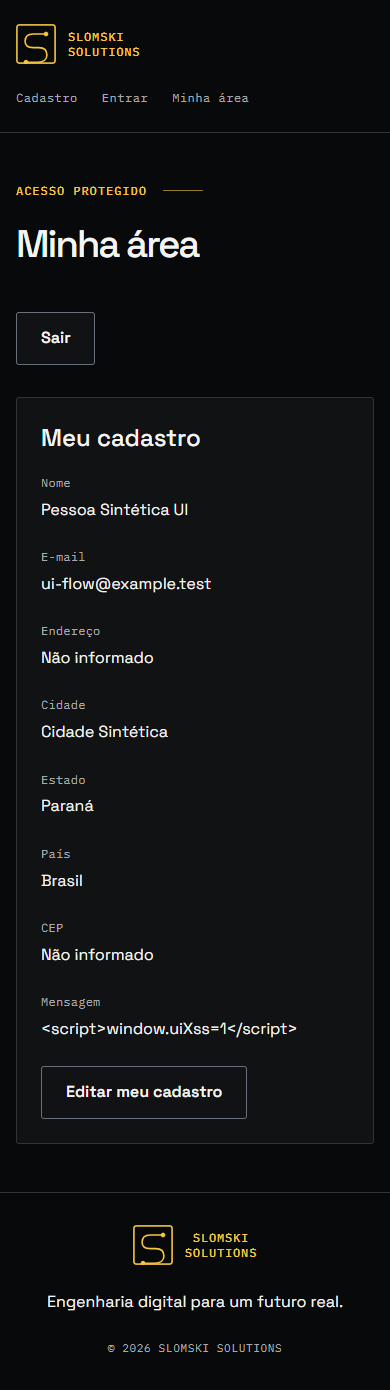
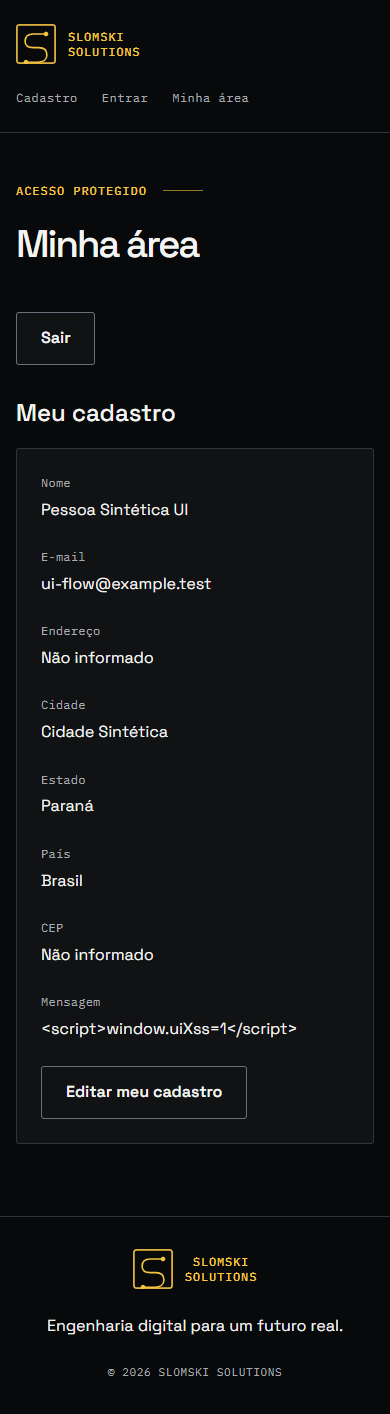
refactor(profile): unifica edição nas áreas de usuário e administrador
- Substitui o cartão pelo formulário no mesmo contêiner e largura
- Elimina a exibição duplicada dos dados durante a edição
- Preserva rascunho, foco, validações e controle de concorrência
- Mantém os fluxos administrativos e os contratos da API
- Atualiza testes, capturas afetadas e documentação

Validação: perfil 35/35, UI 51/51, administrativo 41/41 e
concorrência 58/58; lint, typecheck, build e Harness aprovados.

diff --git a/components/ui/Area.tsx b/components/ui/Area.tsx
@@ -445,21 +445,17 @@ export default function Area({ data, hasAfter = false }: { data: AreaData; hasAf
       {deleteTarget && <DeleteUserDialog user={deleteTarget} busy={deleting} dialogRef={deleteDialog} onCancel={() => actions.current?.cancelDelete()} onConfirm={() => void actions.current?.remove()} onLogout={() => void actions.current?.logout()} />}
       {deleting && !deleteTarget && <p className="notice" role="status">A exclusão continua em processamento. Aguarde a confirmação e a atualização da listagem.</p>}
       {success && <p className="notice success" role="status">{success}</p>}
-      {editor && !data.admin && <ProfileForm key={editor.etag} profile={editor} busy={busy} feedback={profileFeedback} onSave={input => void actions.current?.save(input)} onCancel={() => actions.current?.cancelEdit()} onReload={() => void actions.current?.edit()} />}
-      {!data.admin && <section className="card"><h2>Meu cadastro</h2><UserDetails user={snapshot.own} />
-        {!editor && <button ref={editButton} className="secondary profile-edit-action" disabled={busy} onClick={() => void actions.current?.edit()}>Editar meu cadastro</button>}
-      </section>}
-      {data.admin && <>
-        <section className="area-section" aria-labelledby="own-admin-title">
-          <h2 id="own-admin-title">Meu cadastro administrativo</h2>
-          <div className="admin-profile-slot">
-          {editor ? <ProfileForm key={editor.etag} embedded profile={editor} busy={busy} feedback={profileFeedback} onSave={input => void actions.current?.save(input)} onCancel={() => actions.current?.cancelEdit()} onReload={() => void actions.current?.edit()} /> : <article className="card record-card own-admin-card" aria-label={'Cadastro de ' + snapshot.own.name}>
-            <p className="record-badge">Você · Administrador</p>
-            <UserDetails user={snapshot.own} omitEmptyMessage />
-            {!editor && <button ref={editButton} className="secondary profile-edit-action" disabled={busy} onClick={() => void actions.current?.edit()}>Editar meu cadastro</button>}
+        <section className="area-section" aria-labelledby="own-profile-title">
+          <h2 id="own-profile-title">{data.admin ? 'Meu cadastro administrativo' : 'Meu cadastro'}</h2>
+          <div className={'profile-slot' + (data.admin ? ' admin-profile-slot' : '')}>
+          {editor ? <ProfileForm key={editor.etag} embedded profile={editor} busy={busy} feedback={profileFeedback} onSave={input => void actions.current?.save(input)} onCancel={() => actions.current?.cancelEdit()} onReload={() => void actions.current?.edit()} /> : <article className={'card' + (data.admin ? ' record-card own-admin-card' : '')} aria-label={'Cadastro de ' + snapshot.own.name}>
+            {data.admin && <p className="record-badge">Você · Administrador</p>}
+            <UserDetails user={snapshot.own} omitEmptyMessage={data.admin} />
+            <button ref={editButton} className="secondary profile-edit-action" disabled={busy} onClick={() => void actions.current?.edit()}>Editar meu cadastro</button>
           </article>}
           </div>
         </section>
+      {data.admin && <>
         <section className="area-section" aria-labelledby="managed-users-title">
         <h2 id="managed-users-title" ref={listTitle} tabIndex={-1}>Usuários cadastrados</h2>
         <p className="section-description">Contas comuns cadastradas na plataforma.</p>

diff --git a/app/globals.css b/app/globals.css
@@ -479,14 +479,14 @@ input[aria-invalid='true'], textarea[aria-invalid='true'] {
   margin-bottom: var(--space-5);
 }
 .own-admin-card { border-top: 2px solid var(--accent); }
-.admin-profile-slot { margin-bottom: var(--space-5); }
-.admin-profile-slot > .card {
+.profile-slot { margin-bottom: var(--space-5); }
+.profile-slot > .card {
   width: 100%;
   max-width: none;
   margin: 0;
-  border-top: 2px solid var(--accent);
 }
-.admin-profile-slot .form-grid > .field:first-child { grid-column: 1 / -1; }
+.admin-profile-slot > .card { border-top: 2px solid var(--accent); }
+.profile-slot .form-grid > .field:first-child { grid-column: 1 / -1; }
 .section-description { color: var(--muted); margin-bottom: var(--space-5); }
 .pagination-context { flex-basis: 100%; color: var(--muted); margin: 0; }
 .area-toolbar {

diff --git a/docs/harness/evidence/shared-profile-edit.md b/docs/harness/evidence/shared-profile-edit.md
@@ -1,0 +1,77 @@
+# PROFILE-UI-003 — edição compartilhada user/admin, 30/10/2026
+
+## Contrato e estado inicial
+
+Base main/e2c80e454633749d2875f4950f9ce575401a1fab, árvore limpa. O refinamento
+administrativo anterior já está commitado pelo usuário; não repetir Git mutável.
+Pedido atual autoriza estender a substituição do cartão ao usuário comum por
+estrutura compartilhada. Orquestrador único escritor/autorrevisão sequencial;
+skills deliver-requirement, verify-delivery e record-decision. Sem delegação.
+Escrita: components/ui/Area.tsx, app/globals.css, testes de perfil/UI, capturas
+04 realmente afetadas e documentação/evidência/memória do projeto. Sem APIs,
+banco/migrations/grants, auth/autorização, polling/operações, modal ou rodapé.
+Aceite: uma representação por perfil, largura/alinhamento iguais, salvar/cancelar,
+rascunho, foco e responsividade para ambos papéis; admin/exclusão sem regressão.
+Uma execução e até duas correções por hipótese, tempo operacional25min.
+Revisão humana e CI remoto deste diff pendentes; sem commit/push/deploy.
+
+## Inspeção e correção
+
+Código anterior renderizava ProfileForm para user como irmão anterior à seção
+somente leitura. O formulário mantinha form-card estreito, enquanto admin já
+alternava editor/article dentro de um slot. O novo JSX da seção/slot e da
+alternância é único para ambos os papéis; variam título, selo/classe de destaque
+e apresentação da mensagem vazia. ProfileForm embedded é reutilizado sem alterar
+validação, versão, ETag, estado de rascunho ou callbacks.
+Regra comum profile-slot aplica100% de largura, max-width none e margem0 a ambos
+os cartões; classe admin mantém apenas a borda amarela. Nome/endereço/mensagem
+amplos e pares restantes responsivos, coluna única no celular.
+Título h2 estável; h3 de edição dentro do formulário. Foco inicial existente no
+nome e retorno ao botão mantidos. A altura acompanha naturalmente os campos;
+não se promete altura fixa. Não há timeout, scroll manual ou clique sintético
+no produto. Lista administrativa permanece fora do slot e não é remontada.
+
+## Verificação
+
+Matriz compartilhada de teste cobre user/admin em desktop, tablets retrato e
+paisagem e celular, card ausente durante edição, mesma largura/x/posição do slot,
+zero PATCH ao cancelar, dados confirmados, save único, rascunho após polling e
+lista administrativa mantida no mesmo nó. Asserção histórica que exigia dd
+visível durante edição foi substituída por ausência do article e retorno dos
+dados atualizados após cancelar. Testes completos e resultados serão registrados.
+
+[Pedido integral](../../prompts/2026-10-30-shared-profile-edit.txt), preservado da mensagem user da sessão atual.
+
+## Resultados finais e limites
+
+| Execução local | Resultado |
+| --- | --- |
+| npm run test:profile:ui |35/35; mesma matriz para user/admin |
+| npm run test:ui |51/51; somente capturas04 atualizadas |
+| npm run test:admin-delete:ui |41/41; clique único/toque/teclado/duplo clique/zero DELETE ao abrir |
+| node --test tests/ui/race.test.mjs |58/58; gerações, ocultação, expiração, logout e histórico |
+| Harness doctor → validate → verify --product | Aprovados;62/62 Node, lint e typecheck incluídos |
+| npm run build | Aprovado |
+| git diff --check | Aprovado |
+
+Zero falhas/skips/cancelamentos finais nesta rodada. Todos os runners PostgreSQL
+confirmaram cleanup0 e metadados protegidos iguais. Asserções de console/pageerror/
+hidratação sem erros inesperados; suíte de corridas preserva o teste que injeta
+um aviso de hidratação deliberado como controle, sem erro nas páginas normais.
+Resultados em [JSON](shared-profile-edit-results.json). Harness continua parcial,
+readiness:not-assessed. Testes são locais; revisão humana/CI remoto pendentes.
+
+Capturas04 desktop/mobile inspecionadas visualmente e atualizadas; demais18 PNGs
+mais três referências iguais por SHA256, ver [hashes](shared-profile-edit-hashes.json).
+Não há mudança visual administrativa pretendida. O layout do formulário foi
+verificado por medidas DOM para cada papel/viewport, não por imagem simulada.
+
+Produto alterado somente em components/ui/Area.tsx e app/globals.css. Reuso do
+ProfileForm existente, sem alteração nele ou no DeleteUserDialog. Testes alterados
+em tests/profile/browser.mjs e tests/ui/browser.mjs. Documentação: índice de prompts,
+arquitetura/requisitos, prompt integral, esta evidência, resultados/hashes, galeria
+e memória do projeto. Nenhum diff de API/server/database/shared/auth/rodapé.
+
+Diff exclusivo contra baseline limpa e2c80e4, incluindo arquivos novos e PNGs:
+C:/Users/thiag/AppData/Local/Temp/shared-profile-delivery-1OQuW5/exclusive.diff.
+Sem commit, push ou deploy. Autorrevisão sequencial; revisão humana pendente.

diff --git a/docs/harness/memory/handoff.md b/docs/harness/memory/handoff.md
@@ -1,3 +1,16 @@
+## PROFILE-UI-003 — edição compartilhada user/admin, 30/10/2026
+
+Pedido complementar supera a preservação do editor user anterior. Base main/e2c80e4
+inicialmente limpa; apenas Area/CSS no produto. Uma seção/slot alterna card/editor
+para ambos papéis, sem duplicação ou encolhimento horizontal. Títulos/selo mantidos;
+callbacks/versão/draft/foco, polling, API, auth, modal e rodapé preservados.
+Perfil35/35, UI51/51, admin41/41 e corridas58/58, zero falhas/skips finais.
+Lint/tipos/build/doctor/validate/verify aprovados; Harness62/62, parcial e
+readiness:not-assessed. Cleanup0/metadados protegidos iguais. Apenas par04
+atualizado;18 PNGs+3 referências iguais por SHA256. Sem uso de contas persistentes,
+commit/push/deploy. Autorrevisão; humana e CI remoto pendentes.
+[Contrato, pedido, resultados e diff](../evidence/shared-profile-edit.md).
+
 ## ADMIN-UI-002 — perfil administrativo e complementos, 30/10/2026
 
 Base main/d32c6d0 inicialmente limpa. Próprio perfil de loadArea.own no topo,

diff --git a/docs/harness/memory/project-state.md b/docs/harness/memory/project-state.md
@@ -1,3 +1,16 @@
+## PROFILE-UI-003 — edição compartilhada user/admin, 30/10/2026
+
+Pedido complementar supera a preservação do editor user anterior. Base main/e2c80e4
+inicialmente limpa; apenas Area/CSS no produto. Uma seção/slot alterna card/editor
+para ambos papéis, sem duplicação ou encolhimento horizontal. Títulos/selo mantidos;
+callbacks/versão/draft/foco, polling, API, auth, modal e rodapé preservados.
+Perfil35/35, UI51/51, admin41/41 e corridas58/58, zero falhas/skips finais.
+Lint/tipos/build/doctor/validate/verify aprovados; Harness62/62, parcial e
+readiness:not-assessed. Cleanup0/metadados protegidos iguais. Apenas par04
+atualizado;18 PNGs+3 referências iguais por SHA256. Sem uso de contas persistentes,
+commit/push/deploy. Autorrevisão; humana e CI remoto pendentes.
+[Contrato, pedido, resultados e diff](../evidence/shared-profile-edit.md).
+
 ## ADMIN-UI-002 — perfil administrativo e complementos, 30/10/2026
 
 Base main/d32c6d0 inicialmente limpa. Próprio perfil de loadArea.own no topo,

diff --git a/docs/ARCHITECTURE.md b/docs/ARCHITECTURE.md
@@ -961,3 +961,7 @@ nunca ARG/ENV de build. Nenhum secret real consultado, nenhuma imagem publicada.
 Perfil próprio independente, usuários comuns e outros administradores separados; edição no mesmo espaço e abertura da confirmação no primeiro clique. [Pedido integral](prompts/2026-10-30-admin-profile-separation.txt) e [evidência](harness/evidence/admin-profile-separation.md).
 
 Complementos integrais: [modal no primeiro clique](prompts/2026-10-30-admin-profile-complement-1.txt) e [edição no mesmo cartão e largura](prompts/2026-10-30-admin-profile-complement-2.txt).
+
+## PROFILE-UI-003 — edição compartilhada, 30/10/2026
+
+Uma seção e um profile-slot alternam cartão/editor para ambos os papéis; diferenças limitadas a títulos, selo e apresentação administrativa. Operações e contratos preservados. [Pedido integral](prompts/2026-10-30-shared-profile-edit.txt) e [evidência](harness/evidence/shared-profile-edit.md).

diff --git a/docs/REQUIREMENTS.md b/docs/REQUIREMENTS.md
@@ -318,3 +318,7 @@ Job container-smoke independente; resultados locais e limitações na
 Perfil próprio independente, usuários comuns e outros administradores separados; edição no mesmo espaço e abertura da confirmação no primeiro clique. [Pedido integral](prompts/2026-10-30-admin-profile-separation.txt) e [evidência](harness/evidence/admin-profile-separation.md).
 
 Complementos integrais: [modal no primeiro clique](prompts/2026-10-30-admin-profile-complement-1.txt) e [edição no mesmo cartão e largura](prompts/2026-10-30-admin-profile-complement-2.txt).
+
+## PROFILE-UI-003 — edição compartilhada, 30/10/2026
+
+User e admin exibem somente uma representação do perfil por vez, com largura/alinhamento comuns, rascunho preservado e cancelamento sem atualização. [Pedido integral](prompts/2026-10-30-shared-profile-edit.txt) e [evidência](harness/evidence/shared-profile-edit.md).

diff --git a/docs/AI_PROMPTS.md b/docs/AI_PROMPTS.md
@@ -461,3 +461,7 @@ e acumulado. Sem commit/push/deploy; revisão humana/CI remoto pendentes.
 Perfil próprio independente, usuários comuns e outros administradores separados; edição no mesmo espaço e abertura da confirmação no primeiro clique. [Pedido integral](prompts/2026-10-30-admin-profile-separation.txt) e [evidência](harness/evidence/admin-profile-separation.md).
 
 Complementos integrais: [modal no primeiro clique](prompts/2026-10-30-admin-profile-complement-1.txt) e [edição no mesmo cartão e largura](prompts/2026-10-30-admin-profile-complement-2.txt).
+
+## PROFILE-UI-003 — edição compartilhada, 30/10/2026
+
+Pedido complementar para compartilhar substituição e largura do cartão de perfil entre user/admin. [Pedido integral](prompts/2026-10-30-shared-profile-edit.txt) e [evidência](harness/evidence/shared-profile-edit.md).

diff --git a/docs/harness/evidence/ui-captures/README.md b/docs/harness/evidence/ui-captures/README.md
@@ -2,6 +2,13 @@
 
 Dados sintéticos. Desktop: 1280 × 900; celular: 390 × 844
 
+## PROFILE-UI-003 — edição compartilhada, 30/10/2026
+
+Somente par04 (Minha área, desktop/mobile) atualizado pela estrutura compartilhada
+do perfil. Cartão e editor passam a ocupar alternadamente o mesmo slot em ambos
+os papéis. Demais18 PNGs e três referências preservados por SHA256.
+[Evidência](../shared-profile-edit.md) e [hashes](../shared-profile-edit-hashes.json).
+
 ## ADMIN-UI-002 — perfil administrativo separado, 30/10/2026
 
 Somente pares06 (painel administrativo) e10 (confirmação sobre o painel)
